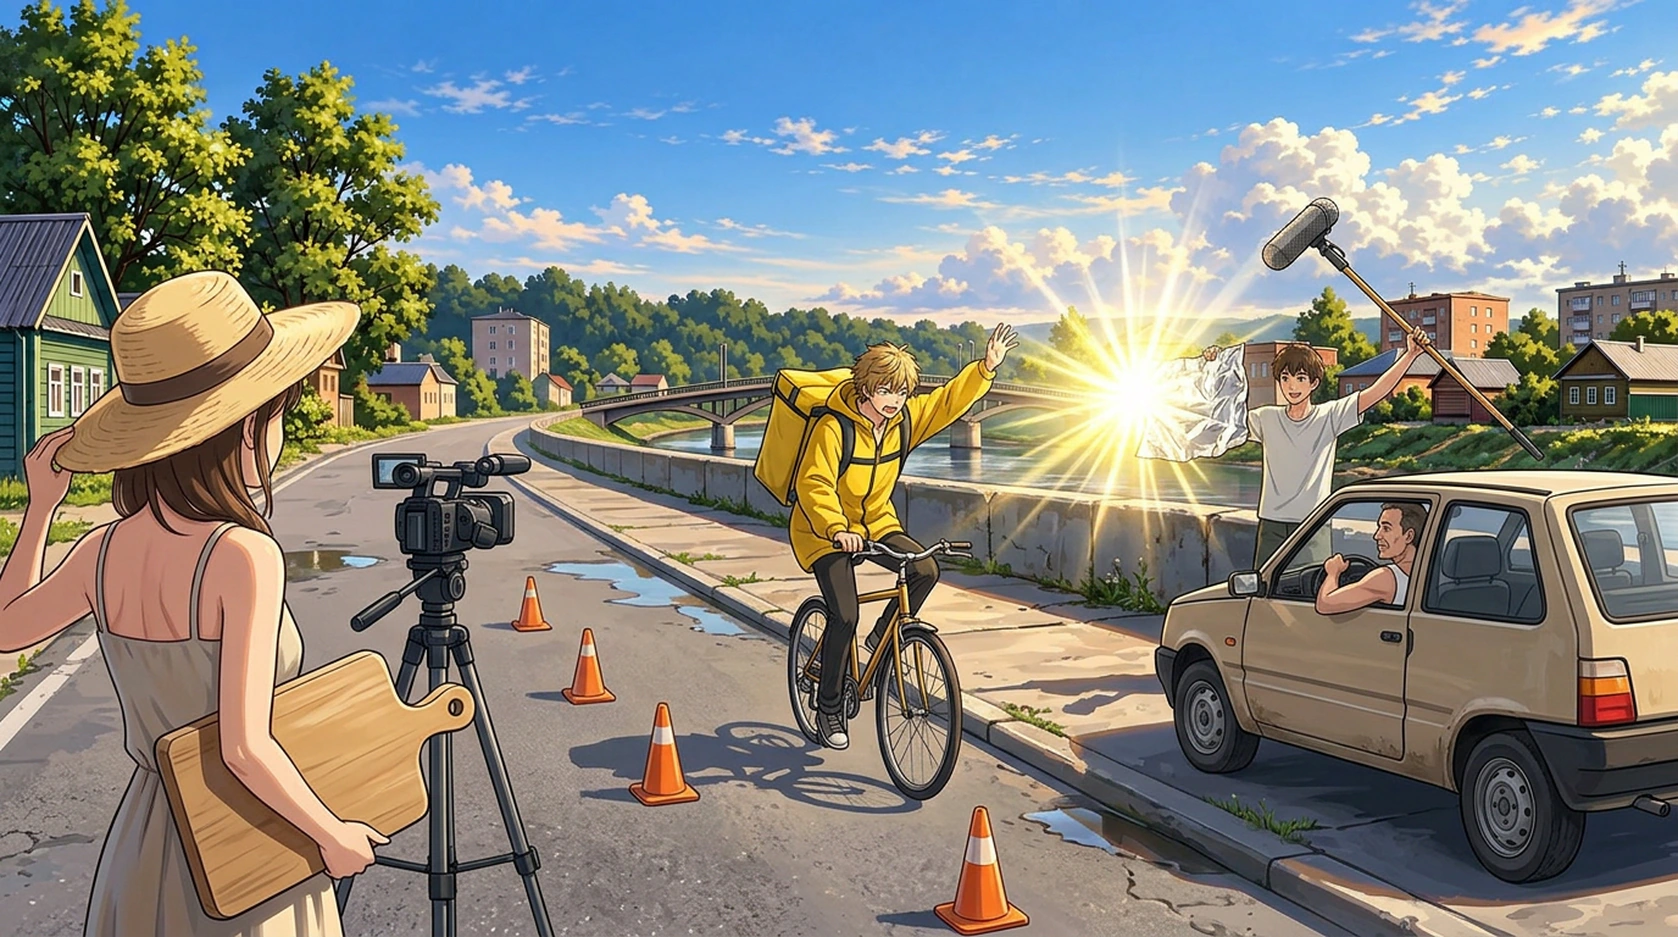
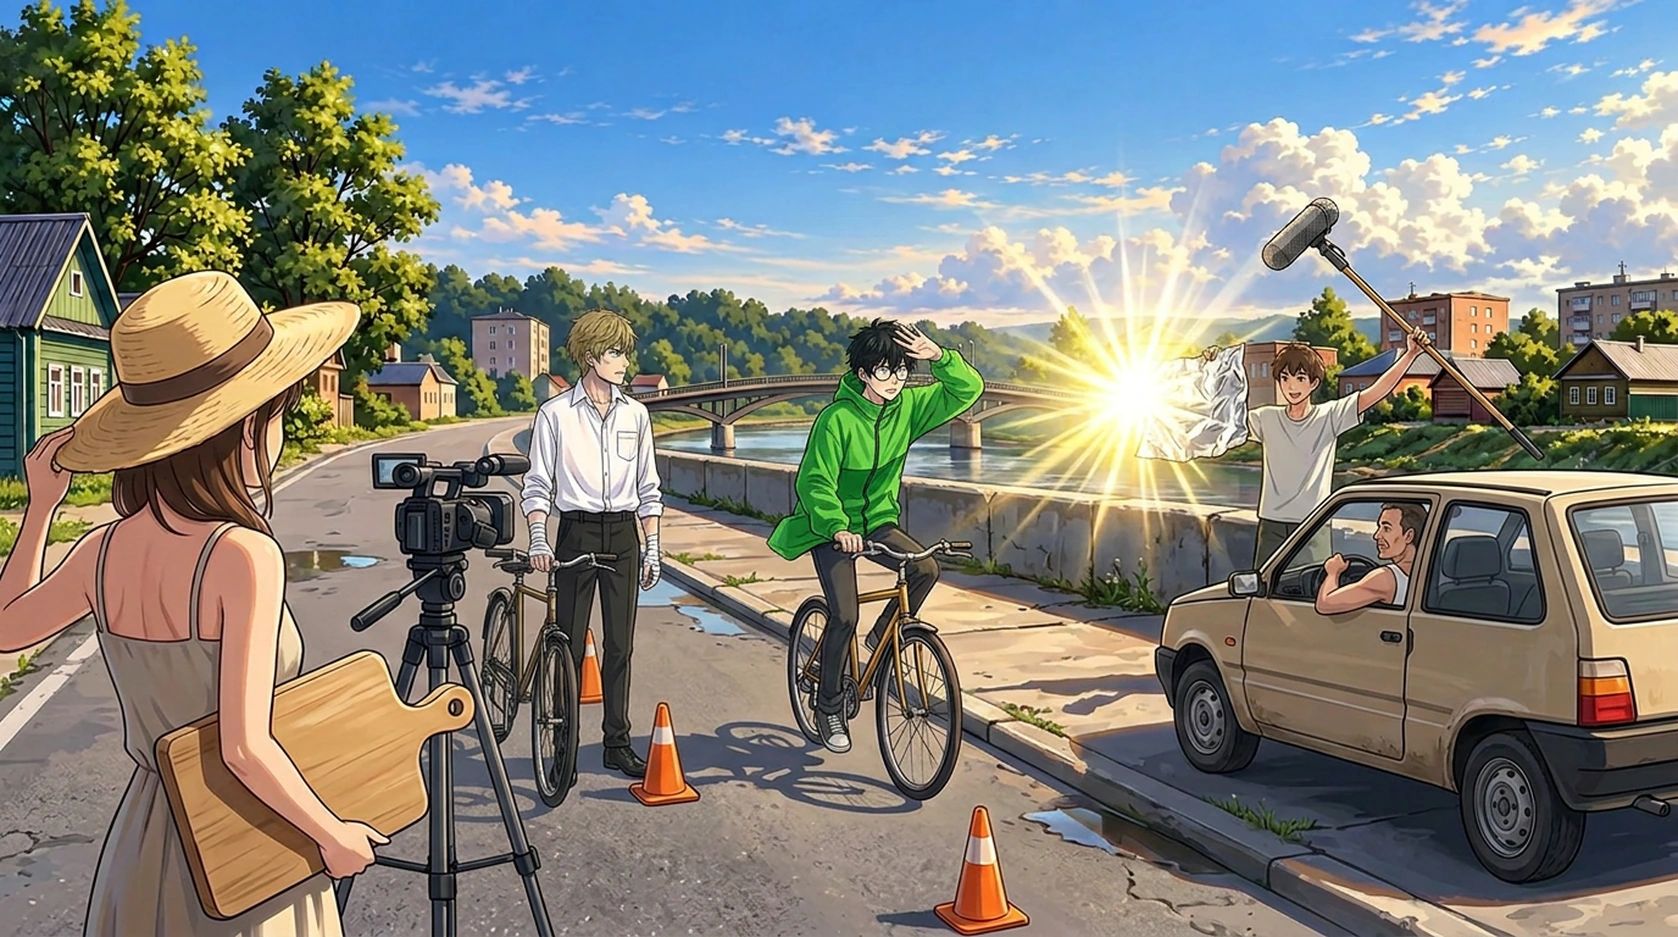
CG съёмки в Дне 4 переделан: Саша в рубашке, без дождевика и короба, стоит со своим велосипедом; Петя черноволосый очкарик в зелёной куртке, без короба. ASSET_VER 20261103_58

diff --git a/index.html b/index.html
@@ -4,7 +4,7 @@
   <meta charset="UTF-8" />
   <meta name="viewport" content="width=device-width, initial-scale=1.0" />
   <title>Не смотри на небо</title>
-  <link rel="stylesheet" href="styles.css?v=20261103_57" />
+  <link rel="stylesheet" href="styles.css?v=20261103_58" />
 </head>
 <body>
   <div id="app">
@@ -16,7 +16,7 @@
           <feDisplacementMap in="SourceGraphic" in2="n" scale="2.2" xChannelSelector="R" yChannelSelector="G"/>
         </filter>
       </svg>
-      <img class="swag-logo-img" src="assets/ui/swag_logo.png?v=20261103_57" alt="$WAG Entertainment" draggable="false">
+      <img class="swag-logo-img" src="assets/ui/swag_logo.png?v=20261103_58" alt="$WAG Entertainment" draggable="false">
       <div class="swag-sub"><span class="swag-line"></span><span class="swag-star">✦</span><span class="swag-word">представляет</span><span class="swag-star">✦</span><span class="swag-line r"></span></div>
       <div class="swag-hint">Нажмите, чтобы пропустить</div>
     </div>
@@ -269,46 +269,46 @@
   </div>
 
   <!-- SCRIPT CHAPTERS -->
-  <script src="vn-config.js?v=20261103_57"></script>
-  <script src="vn-core.js?v=20261103_57"></script>
-  <script src="script/_registry.js?v=20261103_57"></script>
-  <script src="script/prologue_1_morning.js?v=20261103_57"></script>
-  <script src="script/prologue_2_city.js?v=20261103_57"></script>
-  <script src="script/prologue_3_barbershop.js?v=20261103_57"></script>
-  <script src="script/prologue_4_depot.js?v=20261103_57"></script>
-  <script src="script/prologue_5_crash.js?v=20261103_57"></script>
-  <script src="script/day1_1_mirael.js?v=20261103_57"></script>
-  <script src="script/day1_2_kitchen.js?v=20261103_57"></script>
-  <script src="script/day1_3_valeria.js?v=20261103_57"></script>
-  <script src="script/day1_4_bridge.js?v=20261103_57"></script>
-  <script src="script/day1_5_taya.js?v=20261103_57"></script>
-  <script src="script/day2_1_quit.js?v=20261103_57"></script>
-  <script src="script/day2_2_shift.js?v=20261103_57"></script>
-  <script src="script/day2_3_zero.js?v=20261103_57"></script>
-  <script src="script/day2_4_walk.js?v=20261103_57"></script>
-  <script src="script/day3_1_office.js?v=20261103_57"></script>
-  <script src="script/day3_2_nika.js?v=20261103_57"></script>
-  <script src="script/day3_3_books.js?v=20261103_57"></script>
-  <script src="script/day3_3_home.js?v=20261103_57"></script>
-  <script src="script/day3_4_nika_night.js?v=20261103_57"></script>
-  <script src="script/day4_1_free.js?v=20261103_57"></script>
-  <script src="script/day4_1b_film.js?v=20261103_57"></script>
-  <script src="script/day4_2_barbershop.js?v=20261103_57"></script>
-  <script src="script/day4_2b_cake.js?v=20261103_57"></script>
-  <script src="script/day4_3_cuckoo.js?v=20261103_57"></script>
-  <script src="script/day4_3_home.js?v=20261103_57"></script>
-  <script src="script/day5_0_bike.js?v=20261103_57"></script>
-  <script src="script/day5_0b_market.js?v=20261103_57"></script>
-  <script src="script/day5_1_artyom.js?v=20261103_57"></script>
-  <script src="script/day5_2_elevator.js?v=20261103_57"></script>
-  <script src="script/day5_3_night.js?v=20261103_57"></script>
-  <script src="script/day6_1_morning.js?v=20261103_57"></script>
-  <script src="script/day6_2_squeeze.js?v=20261103_57"></script>
-  <script src="script/day6_2b_bureau.js?v=20261103_57"></script>
-  <script src="script/day6_3_taya.js?v=20261103_57"></script>
-  <script src="script/day7_0_river.js?v=20261103_57"></script>
-  <script src="script/day7_1_voices.js?v=20261103_57"></script>
-  <script src="script/day7_2_stairs.js?v=20261103_57"></script>
-  <script src="engine.js?v=20261103_57"></script>
+  <script src="vn-config.js?v=20261103_58"></script>
+  <script src="vn-core.js?v=20261103_58"></script>
+  <script src="script/_registry.js?v=20261103_58"></script>
+  <script src="script/prologue_1_morning.js?v=20261103_58"></script>
+  <script src="script/prologue_2_city.js?v=20261103_58"></script>
+  <script src="script/prologue_3_barbershop.js?v=20261103_58"></script>
+  <script src="script/prologue_4_depot.js?v=20261103_58"></script>
+  <script src="script/prologue_5_crash.js?v=20261103_58"></script>
+  <script src="script/day1_1_mirael.js?v=20261103_58"></script>
+  <script src="script/day1_2_kitchen.js?v=20261103_58"></script>
+  <script src="script/day1_3_valeria.js?v=20261103_58"></script>
+  <script src="script/day1_4_bridge.js?v=20261103_58"></script>
+  <script src="script/day1_5_taya.js?v=20261103_58"></script>
+  <script src="script/day2_1_quit.js?v=20261103_58"></script>
+  <script src="script/day2_2_shift.js?v=20261103_58"></script>
+  <script src="script/day2_3_zero.js?v=20261103_58"></script>
+  <script src="script/day2_4_walk.js?v=20261103_58"></script>
+  <script src="script/day3_1_office.js?v=20261103_58"></script>
+  <script src="script/day3_2_nika.js?v=20261103_58"></script>
+  <script src="script/day3_3_books.js?v=20261103_58"></script>
+  <script src="script/day3_3_home.js?v=20261103_58"></script>
+  <script src="script/day3_4_nika_night.js?v=20261103_58"></script>
+  <script src="script/day4_1_free.js?v=20261103_58"></script>
+  <script src="script/day4_1b_film.js?v=20261103_58"></script>
+  <script src="script/day4_2_barbershop.js?v=20261103_58"></script>
+  <script src="script/day4_2b_cake.js?v=20261103_58"></script>
+  <script src="script/day4_3_cuckoo.js?v=20261103_58"></script>
+  <script src="script/day4_3_home.js?v=20261103_58"></script>
+  <script src="script/day5_0_bike.js?v=20261103_58"></script>
+  <script src="script/day5_0b_market.js?v=20261103_58"></script>
+  <script src="script/day5_1_artyom.js?v=20261103_58"></script>
+  <script src="script/day5_2_elevator.js?v=20261103_58"></script>
+  <script src="script/day5_3_night.js?v=20261103_58"></script>
+  <script src="script/day6_1_morning.js?v=20261103_58"></script>
+  <script src="script/day6_2_squeeze.js?v=20261103_58"></script>
+  <script src="script/day6_2b_bureau.js?v=20261103_58"></script>
+  <script src="script/day6_3_taya.js?v=20261103_58"></script>
+  <script src="script/day7_0_river.js?v=20261103_58"></script>
+  <script src="script/day7_1_voices.js?v=20261103_58"></script>
+  <script src="script/day7_2_stairs.js?v=20261103_58"></script>
+  <script src="engine.js?v=20261103_58"></script>
 </body>
 </html>

diff --git a/engine.js b/engine.js
@@ -1,6 +1,6 @@
 // ДВИЖОК ВИЗУАЛЬНОЙ НОВЕЛЛЫ «НЕ СМОТРИ НА НЕБО» ($WAG ENTERTAINMENT)
 (function () {
-  const ASSET_VER = "20261103_57";
+  const ASSET_VER = "20261103_58";
 
   function withVer(url) {
     if (!url) return "";

diff --git a/docs/production/assets.md b/docs/production/assets.md
@@ -248,7 +248,7 @@
 | `cg_d3_balcony_wings.webp` | Ночной балкон. Мира-ангел в дверях, две пары крыльев раскрыты, полотенце висит на крыле. Ника, которую только что втащили обратно, стоит у перил и смотрит на неё | day3_4_nika_night, с «Ника вцепилась в перила…» до «Мира не улыбнулась. Но крылья сложила…» |
 | `cg_d4_lemon.webp` | Вечерняя кухня, вид с места Саши. Мира в человеческом облике, в Дашином платье, кусает половинку лимона, лицо сморщено. На столе макароны с сосисками и мамина тетрадь с ручкой | day4_3_home, «После ужина Саша разрезал лимон» и «Лицо у неё сделалось ровно то самое» |
 | `cg_d5_lilac_crash.webp` | Утро на тихой улице. Мира в человеческом облике сидит в кусте сирени, скрестив руки, лицо оскорблённое; велосипед лежит на боку, Саша бежит к ней | day5_0_bike, с «Саша добежал…» до «Отец тоже отпустил…» |
-| `cg_d4_foil_headlights.webp` | Студенческая съёмка на набережной в полдень: режиссёр в панаме с разделочной доской, камера на треноге, конусы, Петя в курьерской куртке на велосипеде, бежевая легковушка, парень с «журавлём» из швабры бьёт фольгой солнце Пете в лицо (сгенерирован 03.11, ждёт доводки автора) | day4_1b_film, три узла от «поймал солнце куском фольги» до «Саша смотрел на фольгу» |
+| `cg_d4_foil_headlights.webp` | Студенческая съёмка на набережной в полдень: режиссёр в панаме с разделочной доской, камера на треноге, конусы, Петя (долговязый, черноволосый, в очках и чужой зелёной курьерской куртке, без короба) на велосипеде, бежевая легковушка, парень с «журавлём» из швабры бьёт фольгой солнце Пете в лицо. Саша в рубашке, с бинтами на ладонях, стоит у конусов со своим велосипедом и смотрит на дубль. Без дождевика и короба: он больше не курьер (сгенерирован 03.11, переделан по замечанию автора, ждёт доводки) | day4_1b_film, три узла от «поймал солнце куском фольги» до «Саша смотрел на фольгу» |
 | `cg_d5_console.webp` | Вечер в квартире Артёма: Саша и Артём на полу у чёрного дивана с джойстиками, экран во всю стену с ночными гонками и зеброй, две коробки пиццы (одна с ананасами), за панорамным окном река и огни. Артём в домашнем: растянутая серая футболка, треники, босиком, часы на левой руке (сгенерирован 03.11, ждёт доводки автора) | day5_1_artyom, от «Экран во всю стену наконец пригодился» до «Хорошо, что ждут» |
 | `cg_d5_mirror_lift.webp` | Застрявший лифт. Ника сидит на полу у зеркальной стенки, обняв папку, Саша стоит; в зеркалах одни Саши, на табло красный прочерк | day5_2_elevator, с «Ника сползла по зеркальной стенке…» до «Ждите.» |
 

diff --git a/docs/feedback_log.md b/docs/feedback_log.md
@@ -165,7 +165,7 @@
 
 - **«Один заменяет другого вместо того чтобы один слева другой справа».** Двое в кадре стоят по разные стороны; новый персонаж входит только после явного ухода прежнего. Поправлены пролог 4, day3_4, day6_3, day7_1. Правило в `canon/02_characters.md`, проверка в `tools/validate.js`.
 - **«Дождь идёт там, где нет фонов с дождём».** Слой дождя виден только на фонах из `RAIN_BGS` (`production/engine.md`). В Дне 4 Саша пережидает дождь дома в дождевике, потом едет в рубашке. В day5_3 дождя больше нет, в day7_2 дождь только на Мостовом и у шаурмичной.
-- **День 4, съёмка:** CG `cg_d4_foil_headlights`. Саша приезжает без дождевика.
+- **День 4, съёмка:** CG `cg_d4_foil_headlights`. Саша приезжает без дождевика. Автор принял велосипедиста в жёлтой куртке с коробом за Сашу: «убрать и куртку саше и рюкзак, он же не работает». Переделано так: Петя теперь черноволосый очкарик в чужой зелёной куртке и без короба (так и в тексте), а Саша стоит в кадре в рубашке, со своим велосипедом. На CG нельзя одевать другого персонажа в Сашину жёлтую курьерскую форму, его будут путать с Сашей.
 - **«Пацаны хоть пиццы закажут, вместе в плойку погоняют… только артема в домашнем».** В day5_1 Тёма и Саша заказывают пиццу, привозит Гарик, потом гоняют на приставке. Артём тормозит перед каждой нарисованной зеброй («Привычка»). CG `cg_d5_console`: это первый CG с Артёмом, сходство со спрайтом. Куртку он не снимает, пока прячет запястье, а переодевается уже после разговора.
 - **«Не обязательно у Артёма один и тот же трек гонять».** Last Chord остался в прологе 3 и day4_2. В day5_1 пять треков, в day6_2b звучит The Quiet Room, у консьержа в day7_1 evidence_anxiety.
 - **Стрижка в Дне 6:** Мира подравнивает за Тёмой, у которого в Дне 4 тряслись руки. Получилось почти ровно.
